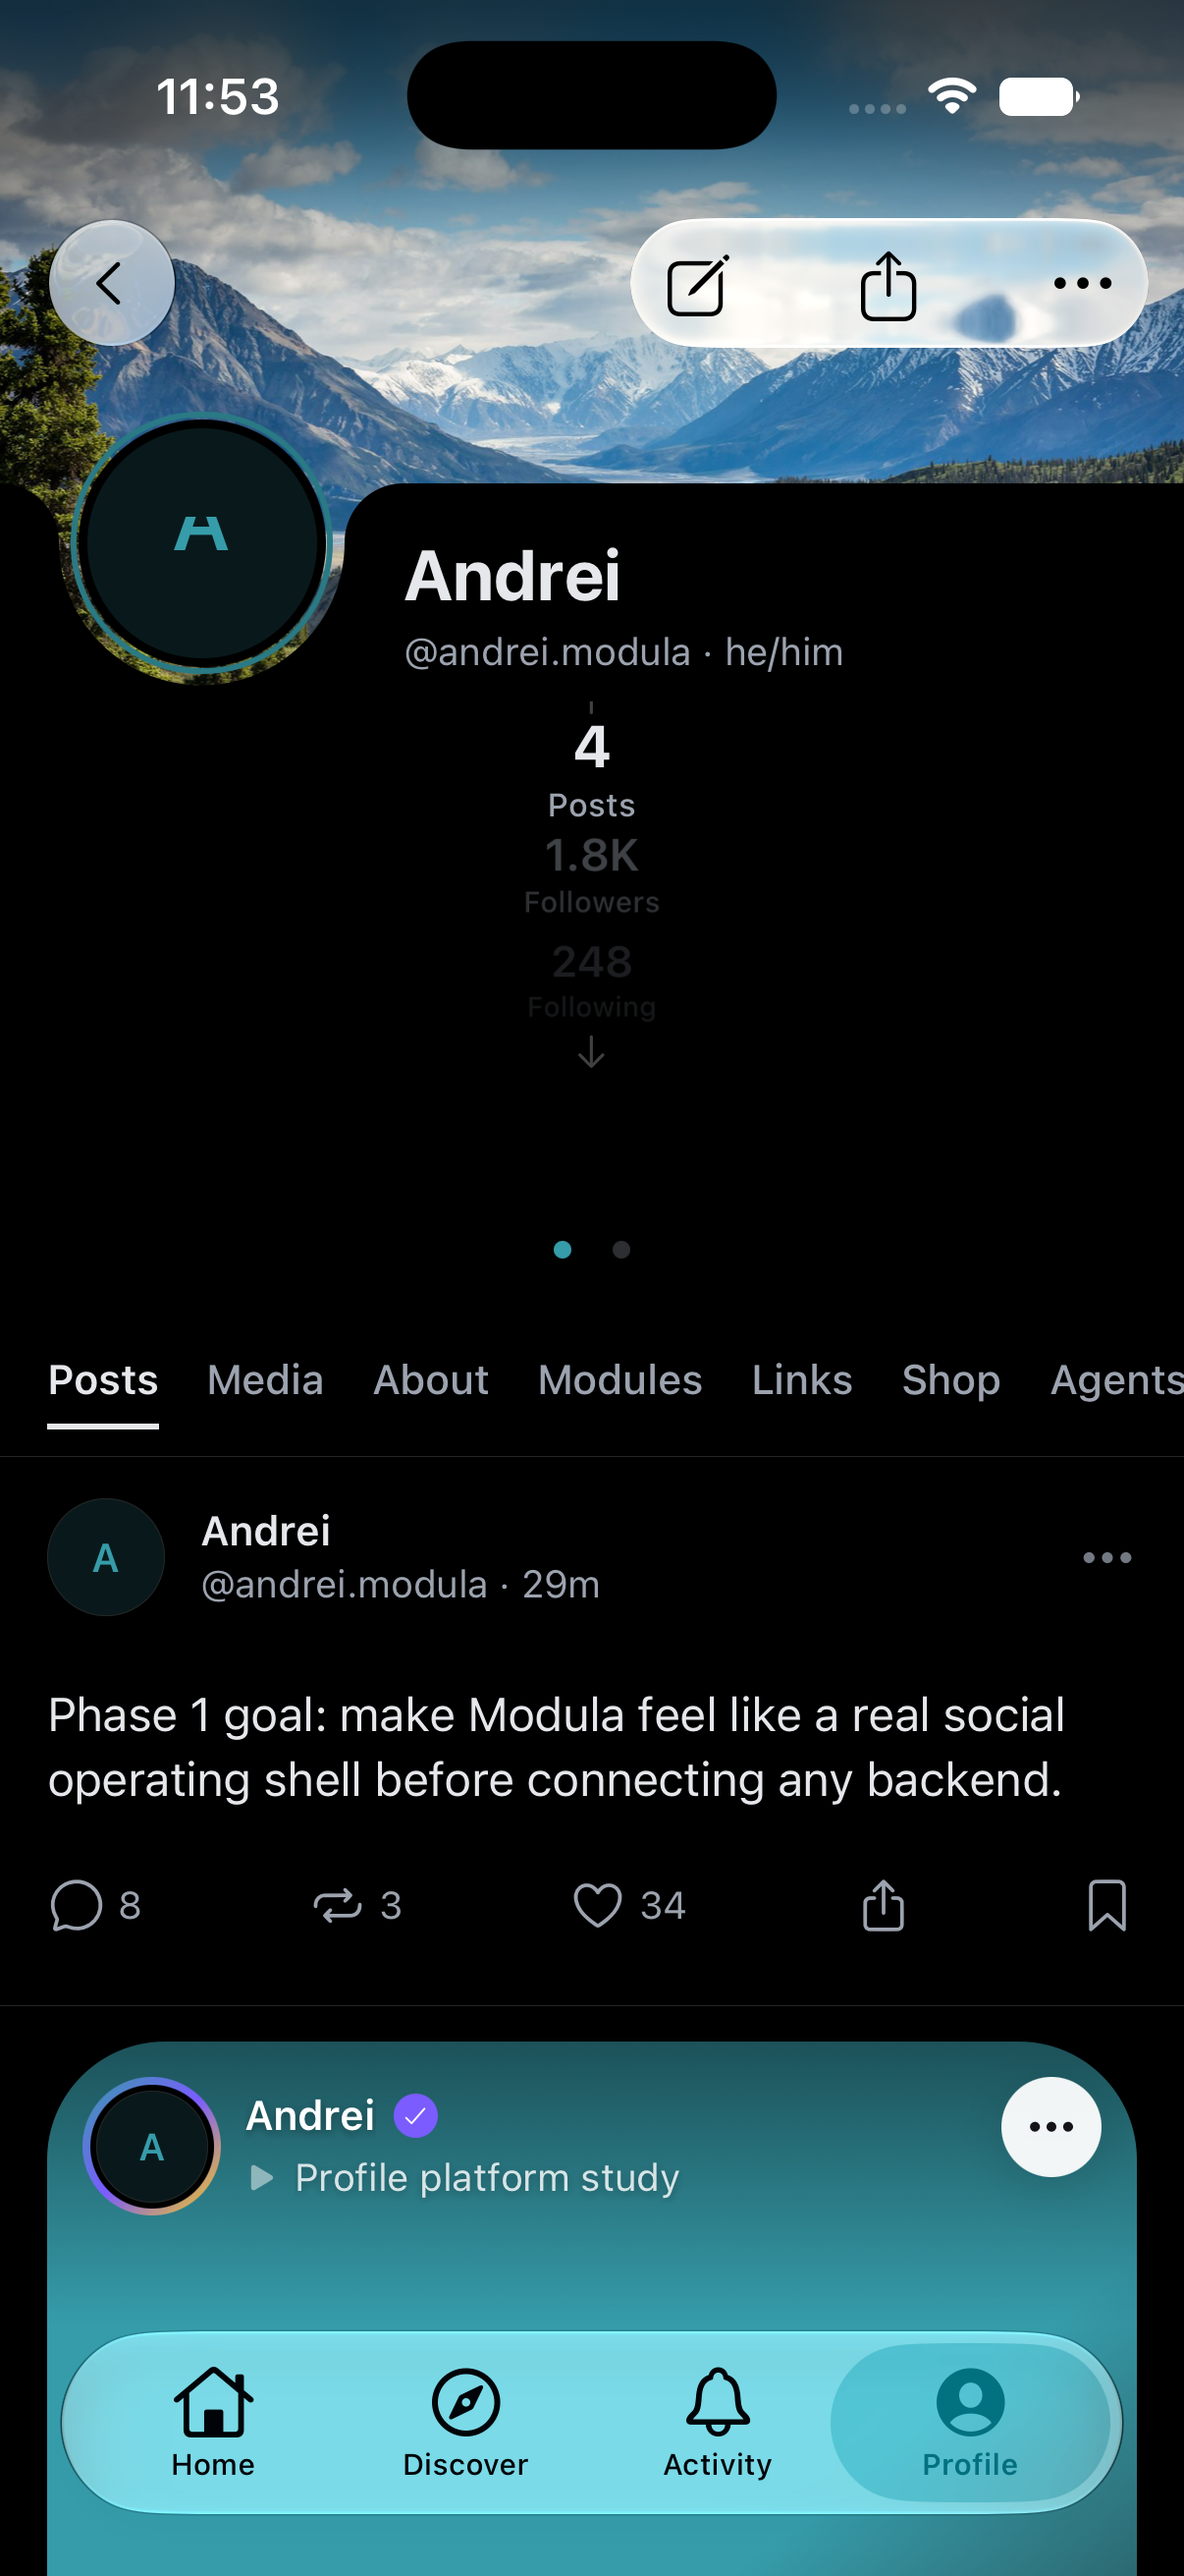
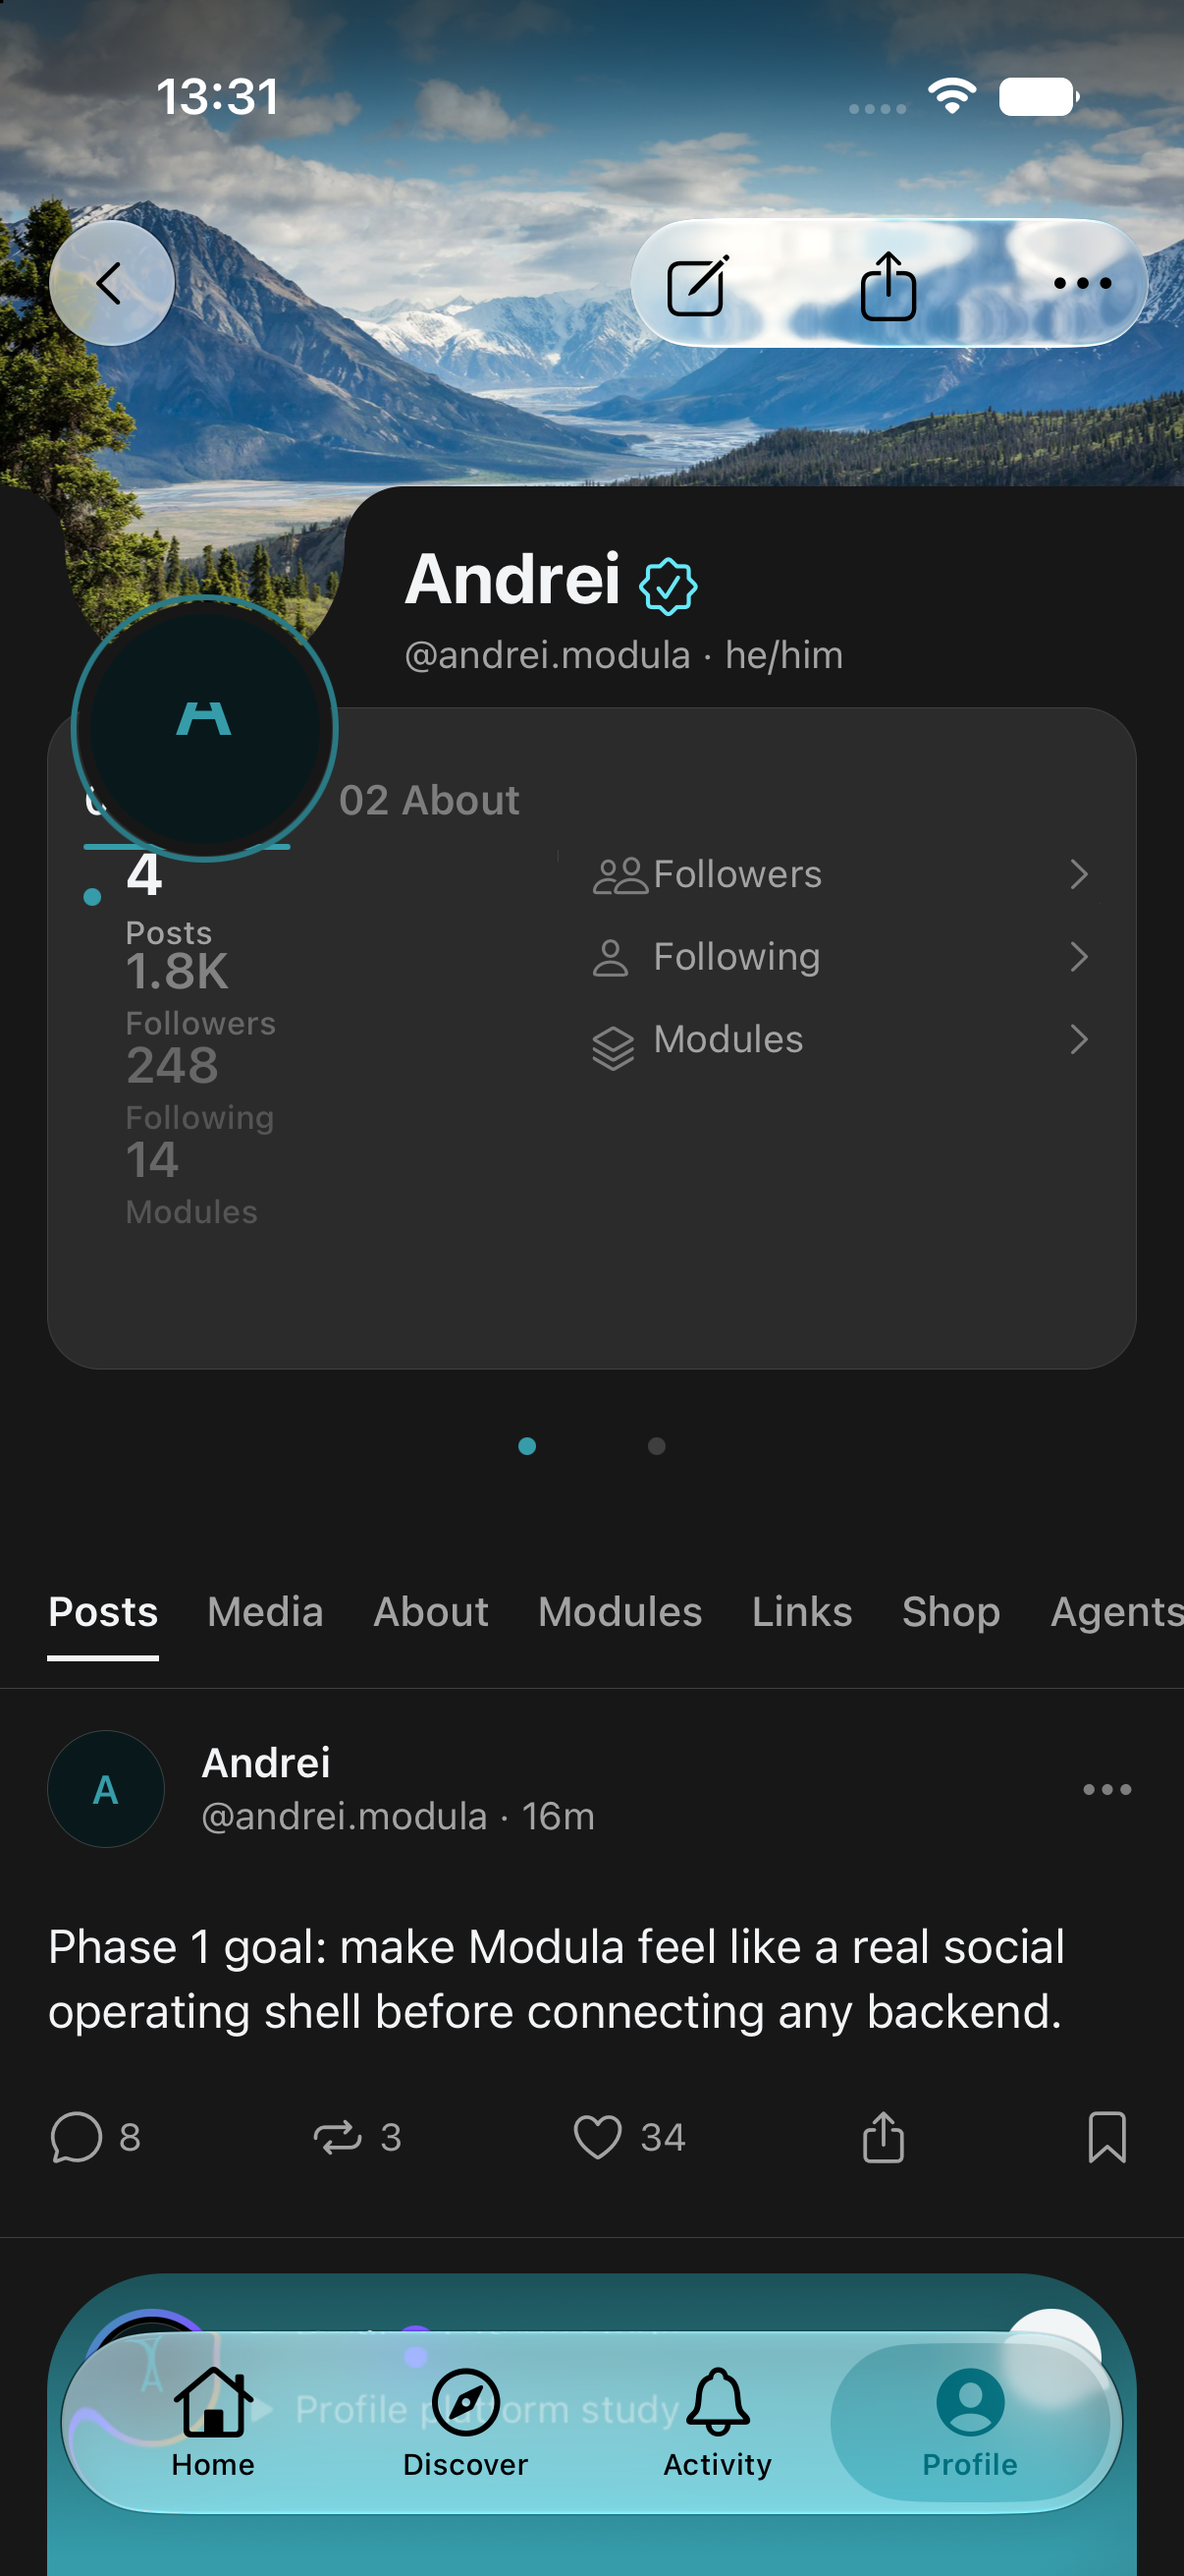
docs: recapture Profile panel and pocket evidence
Replace the previous sparse-pager screenshots with the founder-target Metrics panel, working About chrome, dark/OLED heroes, and a pocket close-up on iPhone 17 Pro.

diff --git a/docs/validation/evidence/phase7m-b6/screenshots-profile-masterpiece/README.md b/docs/validation/evidence/phase7m-b6/screenshots-profile-masterpiece/README.md
@@ -5,6 +5,8 @@ Captured 2026-08-17 on **iPhone 17 Pro Simulator** (`0727E2F0-8528-44DA-9F4C-7B5
 Work branch: `cursor/phase7m-b6-profile-pager-bc99`  
 Base: `cursor/phase7m-b6-profile-masterpiece-ce59`
 
+This recapture is after matching the founder visual target: tighter pocket, verified name, and a two-column **01 Metrics / 02 About** panel.
+
 ```
 PRODUCTION DEPLOYED = NO
 7M-C STARTED = NO
@@ -19,14 +21,14 @@ Hero About in the pager is a compact identity summary. The top-level Profile **A
 
 | File | Surface | What to look at |
 | --- | --- | --- |
-| `profile-avatar-pocket-fixed.png` | Owner hero close-up | Avatar seated in the concentric U cradle (`buildAvatarCradleRisePath`). Focus Halo inside `pocketRadius`. `avatarDrop: 0` is optical-only and moves SVG + portrait together |
-| `profile-info-pager-metrics.png` | Owner hero, page 01 | Metrics first, vertical picker, ● ○, tabs + first post in the first viewport. Liquid Glass back + Edit/Share/More. NativeTabs |
-| `profile-info-pager-about.png` | Attempted page 02 | Maestro can locate `profile-info-indicator-about` but does not fire the RN press, so this frame is still Metrics. Swipe on-device to review bio + two-column metadata |
-| `profile-info-pager-followers.png` | Attempted Followers | Same Maestro limitation on the nested metric pan. Default metric remains **Posts** (user default). Code selects Followers via the picker, not a hardcoded 248 |
+| `profile-avatar-pocket-fixed.png` | Owner hero close-up | Avatar seated in the concentric U cradle. Verified check on Andrei. `cradleGap: 2`, `avatarFit: 0.98`, `avatarBorder: 4`. Focus Halo inside `pocketRadius` |
+| `profile-info-pager-metrics.png` | Owner hero, page 01 | Rounded hairline panel, **01 Metrics** underline, left picker (4 Posts selected with accent dot, Followers, Following, Modules), right destination rows, ● ○, tabs + first post, Liquid Glass back + Edit/Share/More, NativeTabs |
+| `profile-info-pager-about.png` | Owner hero, page 02 | Tapping `profile-info-chrome-about` now switches the page. **02 About** underline, two-column metadata (Joined, website, location, Public), second pager dot active |
 | `profile-info-pager-scrolled.png` | Scrolled | Sticky collapsed identity, tabs, NativeTabs, last content above the tab bar |
-| `profile-info-pager-dark.png` | Dark hero | Canvas, halo, glass cluster, faded metrics, pager dots |
-| `profile-info-pager-oled.png` | OLED hero | True-black body, same geometry |
-| `profile-pocket-long-name.png` | Long name attempt | Edit Profile save did not persist `Christopher Alexander Johnson` in Maestro. Identity column still wraps; pocket is unchanged |
+| `profile-info-pager-dark.png` | Dark hero | Dark canvas, halo, glass cluster, two-column Metrics panel, pager dots |
+| `profile-info-pager-oled.png` | OLED hero | True-black body (`#000`), same geometry, Metrics page 01 |
+
+`profile-info-pager-followers.png` and `profile-pocket-long-name.png` are leftover from the previous pager pass. Do not treat them as this recapture.
 
 `tabs-morph-flush.png` is leftover from an earlier masterpiece pass, not this pager capture.
 
@@ -34,6 +36,11 @@ Hero About in the pager is a compact identity summary. The top-level Profile **A
 
 - Canonical source: `profilePocketGeometry()` in `profile-layout.ts`
 - SVG owner: `buildAvatarCradleRisePath` via `InvertedSurfaceTransition` in `ProfileHero` (same parent as the portrait)
-- Previous bugs: `avatarDrop` moved only the painted avatar; trailing-only quarter left a degenerate left shelf; cover status-bar bleed painted photo under the overlay
 - `identityDrop: 8` — name on the raised plateau
 - `avatarDrop: 0` — compatibility token, optical only
+
+## Honest notes
+
+- The right column of page 01 currently shows destination rows (Followers / Following / Modules) more strongly than the featured Posts spotlight copy. Left picker + chrome still match the founder panel.
+- Dark About metadata can look tight in the panel; this recapture uses Dark **Metrics** as the dark hero frame.
+- OLED canvas samples `#000000` on the body.
